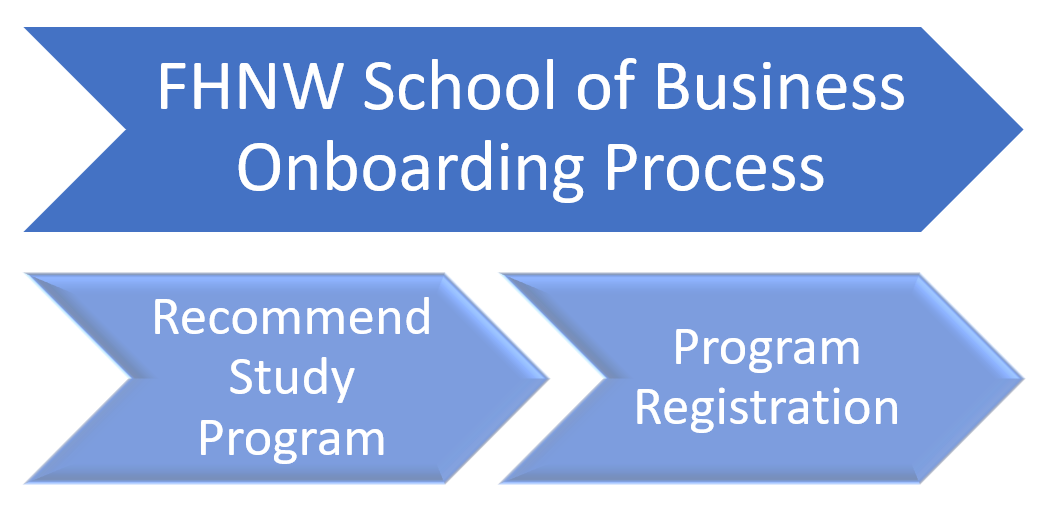
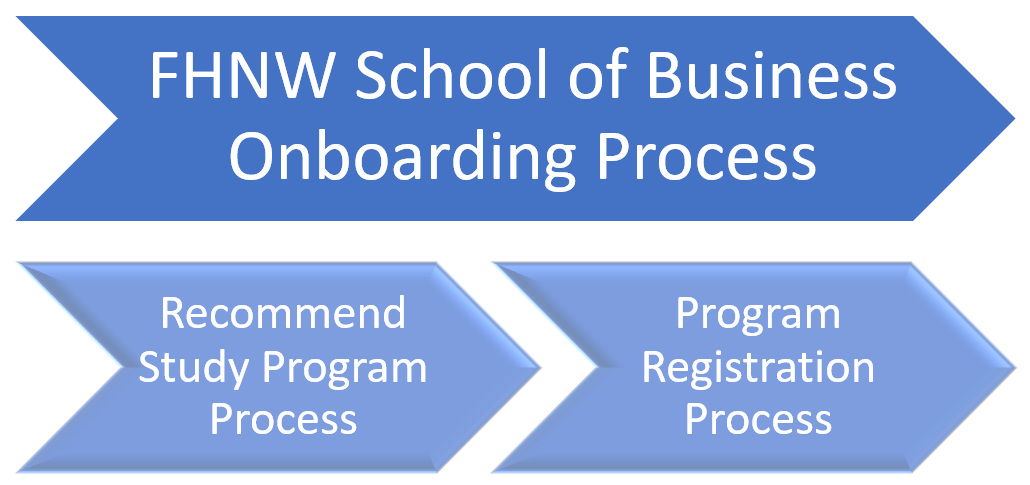
Readme

diff --git a/Submission Documents/README.md b/Submission Documents/README.md
@@ -5,20 +5,21 @@
 #### Authors: Fabian Feiler, Lia Flück, Daniel Horn, Puneeth Krishna Suresh, Daniel Werner ####
 
 
-The overall process that is digitised within this module is the FHNW School of Business Onboarding Process. This process includes two sub-processes, the "Recommend Study Program" process and the "Program Registration" Process. As the "Program Registration" process is being digitised within an ongoing project by the School of Business, the main focus in this module lies on the "Recommend Study Program" process.
+The overall process that is digitised within this module is the **FHNW School of Business Onboarding Process**. 
+This process includes two sub-processes, the **Recommend Study Program process** and the **Program Registration Process**. 
+As the **Program Registration process** is being digitised within an ongoing project by the School of Business, 
+the main focus in this module lies on the **Recommend Study Program process**.
 
-![alt text](https://github.com/DigiBP/digibp-monterosa/blob/master/Submission%20Documents/Images/Processes.PNG)
+![alt text](https://github.com/DigiBP/digibp-monterosa/tree/master/Submission%20Documents/Images/processes.png)
 
+The FHNW school of Business Onboarding Process leads potential students of the School of Business from the first interest in being a student to the actual admission in a program (in a first step only BSc programs). In the sub-process **Recommend Study Program process**, the interested person is supported in choosing a program that matches his/her skills, interests and life-style. Also, the person can then participate in tests that enforce his/her choice. As soon as the interested person decides to register for the recommended program, the second sub-process, the **Program Registration process**, is triggered. 
 
-
-The FHNW SChoolf of Business Onboarding Process leads potential students of the School of Business from the first interest in being a student to the actual admission in a program (in a first step only BSc programs). In the sub-process "Recommend Study Program", the interested person is supported in choosing a program that matches his/her skills, interests and life-style. Also, the person can then participate in tests that enforce his/her choice. As soon as the interested person decides to register for the recommended program, the second sub-process, the "Program Registration" process, is triggered. 
-
-Sub-Process: "Recommend Study Program"
+Sub-Process: **Recommend Study Program Process**
 - Process Goals: Support prospective students in their program decision, eliminate programs from the choice that do not meet the basic requirment for the person (does not meet language requirement, does not meet requirement for full-time/part-time program), 
 - Inputs: form "Possbility Questionnaire", form "Recommendation Questionnaire", discretionary tasks (Loop) "Skills Tests"
 - Outputs: List of possible programs, list of program recommendations, test results
 
-Sub-Process: "Program Registration"
+Sub-Process: **Program Registration**
 - Process Goals: Registration for program, check eligibility, payment of registration fee, add profile to EVENTO, discretionary task: interview
 - Inputs: form "Program Registration", submit required documents (not digital), registration fee payment
 - Outputs: program registration
